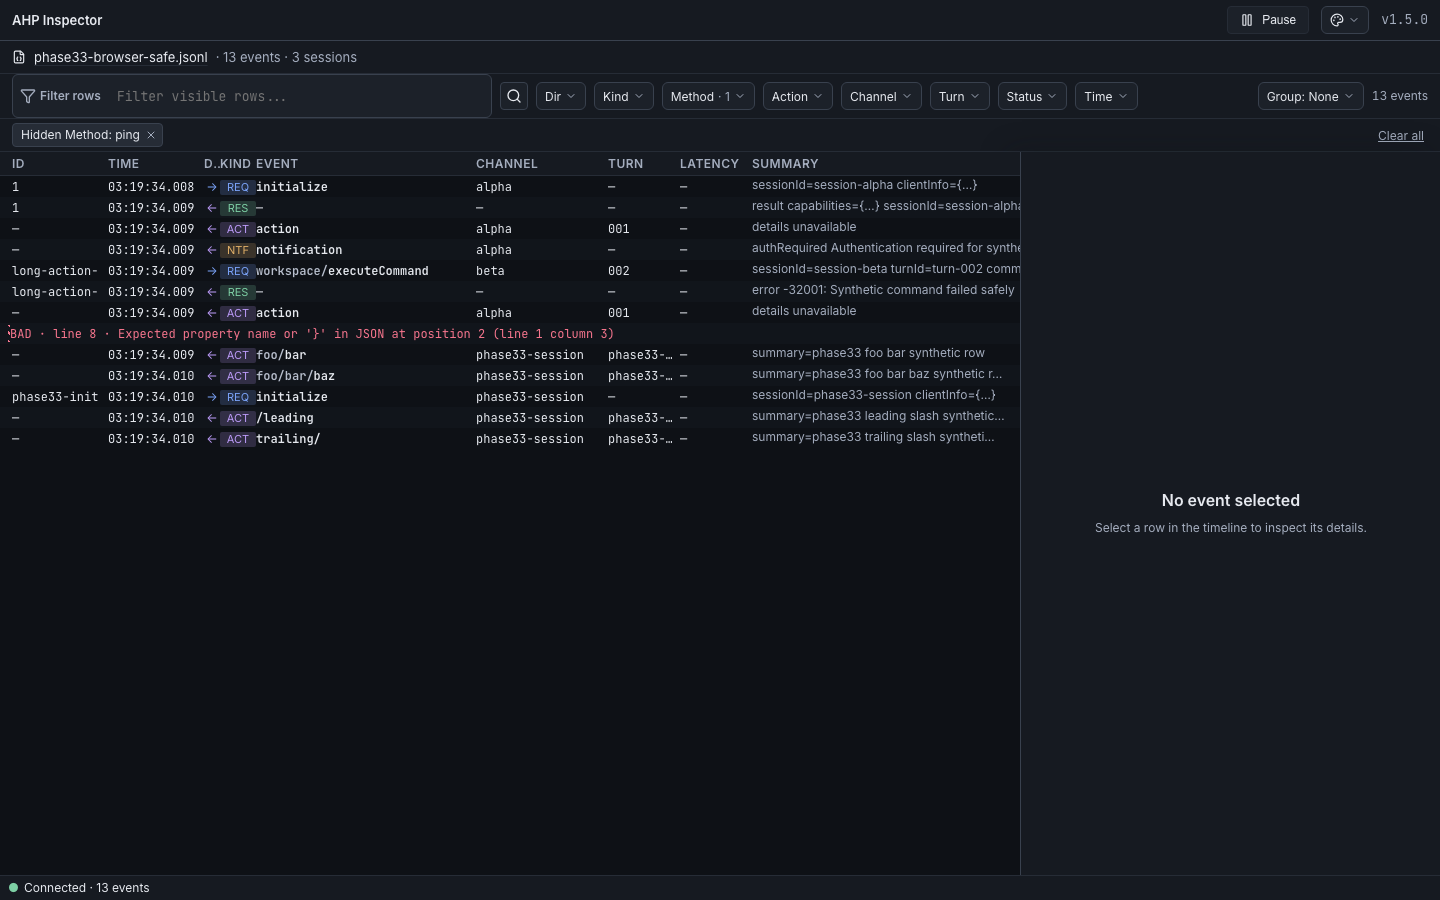
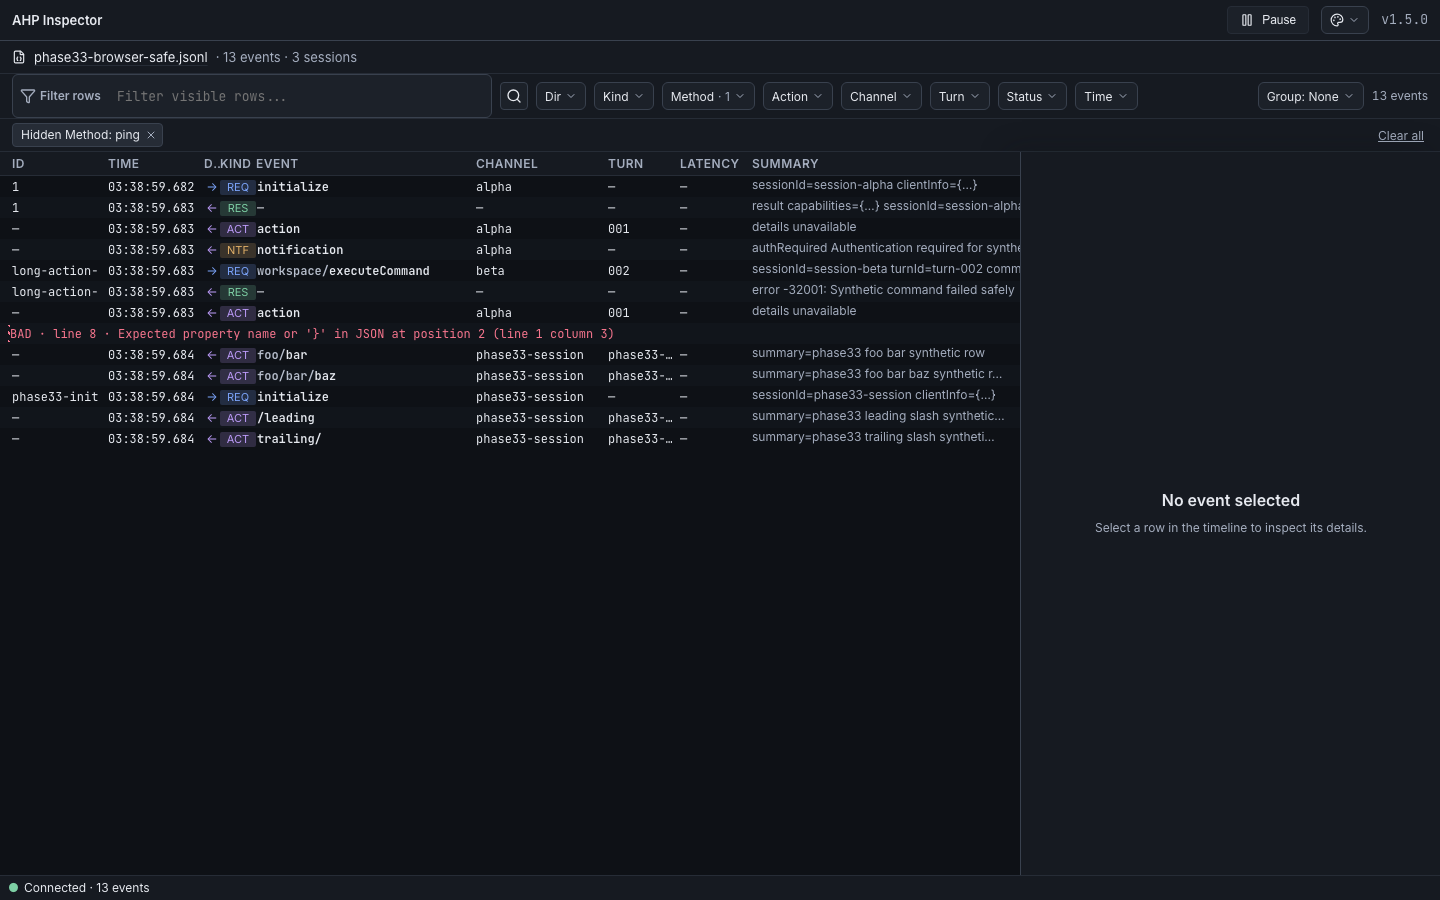
Add event label inset after kind badge (Written by Copilot)
Add a 1px left inset to the event-name cell so compact kind badges have a little breathing room before the label. Refresh Phase 33 fixture screenshots. (Written by Copilot)

diff --git a/packages/ui/src/components/timeline/EventRow.columns.test.tsx b/packages/ui/src/components/timeline/EventRow.columns.test.tsx
@@ -155,6 +155,7 @@ describe("EventRow — UI-SPEC §04.1 columns", () => {
     const methodCell = screen.getByTitle("session/toolCallContentChanged (action)");
     expect(methodCell.style.whiteSpace).toBe("nowrap");
     expect(methodCell.style.overflow).toBe("hidden");
+    expect(methodCell.style.paddingLeft).toBe("1px");
     expect(screen.getByTestId("event-name-label").textContent).toBe(
       "session/toolCallContentChanged",
     );

diff --git a/packages/ui/src/components/timeline/EventRow.tsx b/packages/ui/src/components/timeline/EventRow.tsx
@@ -225,6 +225,7 @@ export const EventRow = memo(function EventRow({
           display: "flex",
           alignItems: "center",
           gap: "var(--space-1)",
+          paddingLeft: 1,
         }}
       >
         {badge ? (
